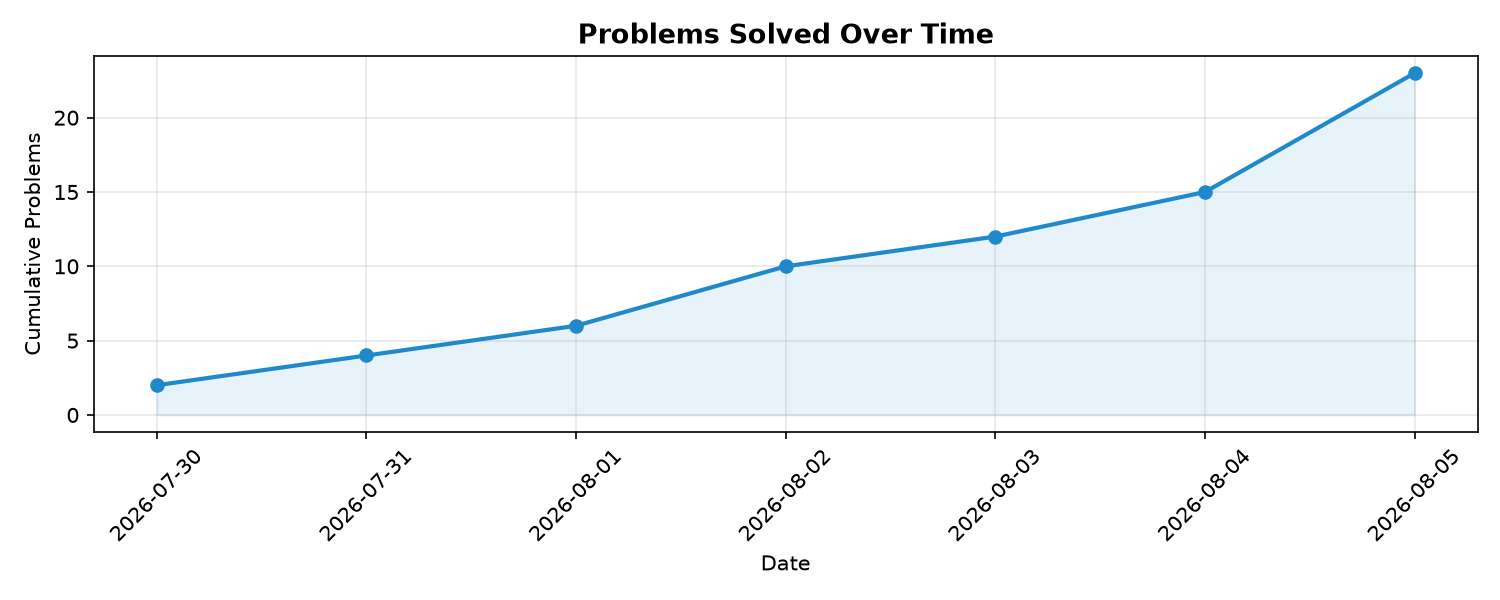
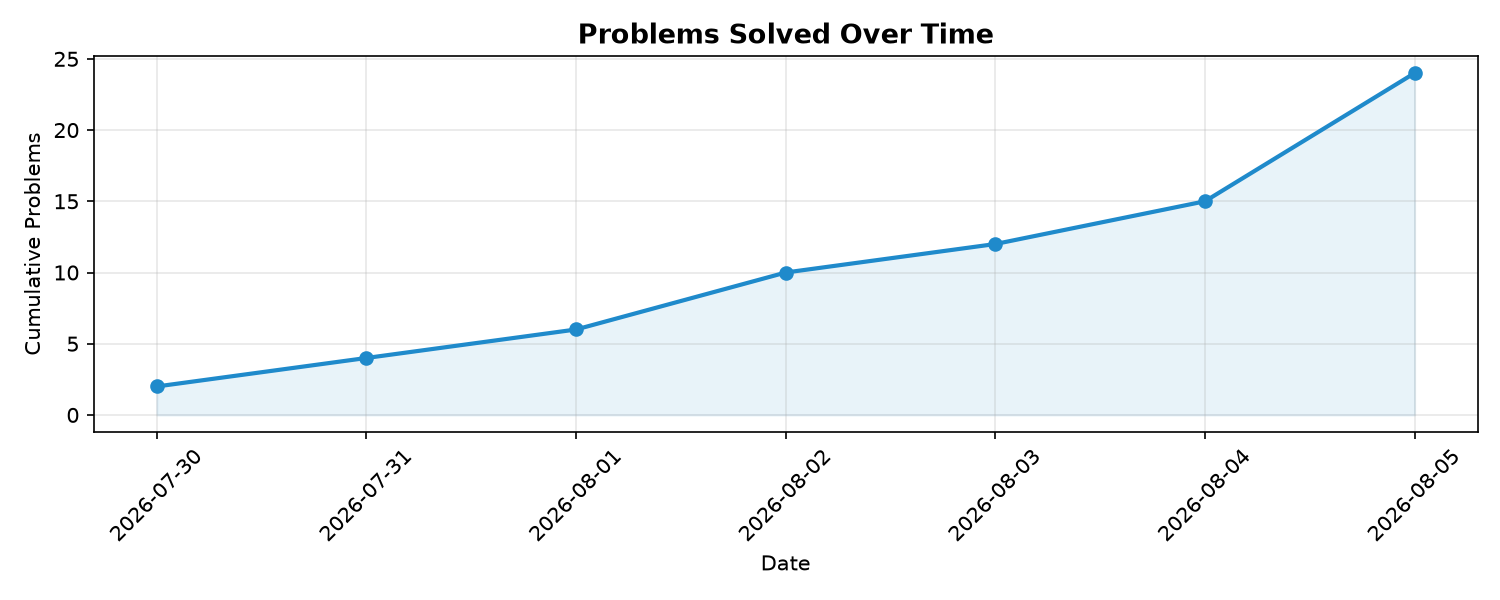
Auto-update README with progress chart

diff --git a/README.md b/README.md
@@ -43,31 +43,31 @@
 <!-- CHART_START -->
 ## 📈 Progress Chart
 
-![Progress](assets/progress_chart.png?t=1786818610)
-![Platform Split](assets/platform_chart.png?t=1786818610)
+![Progress](assets/progress_chart.png?t=1786990481)
+![Platform Split](assets/platform_chart.png?t=1786990481)
 
-**Total Problems Solved: 23**
+**Total Problems Solved: 24**
 
 <details>
 <summary>🕒 Recent Submissions (click to expand)</summary>
 
 | Date | Problem | Difficulty | Platform | Link |
 |---|---|---|---|---|
-| 2026-08-05 | Elevator Requests I | Easy | LeetCode | [Solve](https://leetcode.com/problems/elevator-requests-i/) |
+| 2026-08-05 | Product of Array Except Self | Medium | LeetCode | [Solve](https://leetcode.com/problems/product-of-array-except-self/) |
+| 2026-08-05 | Smallest Missing Integer Greater Than Sequential Prefix Sum | Medium | LeetCode | [Solve](https://leetcode.com/problems/smallest-missing-integer-greater-than-sequential-prefix-sum/) |
 | 2026-08-05 | Smallest Missing Integer Greater Than Sequential Prefix Sum | Medium | LeetCode | [Solve](https://leetcode.com/problems/smallest-missing-integer-greater-than-sequential-prefix-sum/) |
 | 2026-08-05 | Vertical Order Traversal of a Binary Tree | Hard | LeetCode | [Solve](https://leetcode.com/problems/vertical-order-traversal-of-a-binary-tree/) |
 | 2026-08-05 | Minimum Total Price After Applying Discounts | Medium | LeetCode | [Solve](https://leetcode.com/problems/minimum-total-price-after-applying-discounts/) |
 | 2026-08-05 | Check If It Is a Straight Line | Easy | LeetCode | [Solve](https://leetcode.com/problems/check-if-it-is-a-straight-line/) |
 | 2026-08-05 | Binary Tree Zigzag Level Order Traversal | Medium | LeetCode | [Solve](https://leetcode.com/problems/binary-tree-zigzag-level-order-traversal/) |
 | 2026-08-05 | Diameter of Binary Tree | Easy | LeetCode | [Solve](https://leetcode.com/problems/diameter-of-binary-tree/) |
-| 2026-08-05 | Smallest Missing Integer Greater Than Sequential Prefix Sum | Medium | LeetCode | [Solve](https://leetcode.com/problems/smallest-missing-integer-greater-than-sequential-prefix-sum/) |
-| 2026-08-04 | Find Missing Elements | Easy | LeetCode | [Solve](https://leetcode.com/problems/find-missing-elements/) |
-| 2026-08-04 | Merge Strings Alternately | Easy | LeetCode | [Solve](https://leetcode.com/problems/merge-strings-alternately/) |
+| 2026-08-05 | Elevator Requests I | Easy | LeetCode | [Solve](https://leetcode.com/problems/elevator-requests-i/) |
 | 2026-08-04 | Balanced Binary Tree | Easy | LeetCode | [Solve](https://leetcode.com/problems/balanced-binary-tree/) |
+| 2026-08-04 | Merge Strings Alternately | Easy | LeetCode | [Solve](https://leetcode.com/problems/merge-strings-alternately/) |
+| 2026-08-04 | Find Missing Elements | Easy | LeetCode | [Solve](https://leetcode.com/problems/find-missing-elements/) |
 | 2026-08-03 | Maximum Depth of Binary Tree | Easy | LeetCode | [Solve](https://leetcode.com/problems/maximum-depth-of-binary-tree/) |
 | 2026-08-03 | Minimum Size Subarray Sum | Medium | LeetCode | [Solve](https://leetcode.com/problems/minimum-size-subarray-sum/) |
 | 2026-08-02 | Binary Tree Level Order Traversal | Medium | LeetCode | [Solve](https://leetcode.com/problems/binary-tree-level-order-traversal/) |
-| 2026-08-02 | Binary Tree Postorder Traversal | Easy | LeetCode | [Solve](https://leetcode.com/problems/binary-tree-postorder-traversal/) |
 
 </details>
 <!-- CHART_END -->
